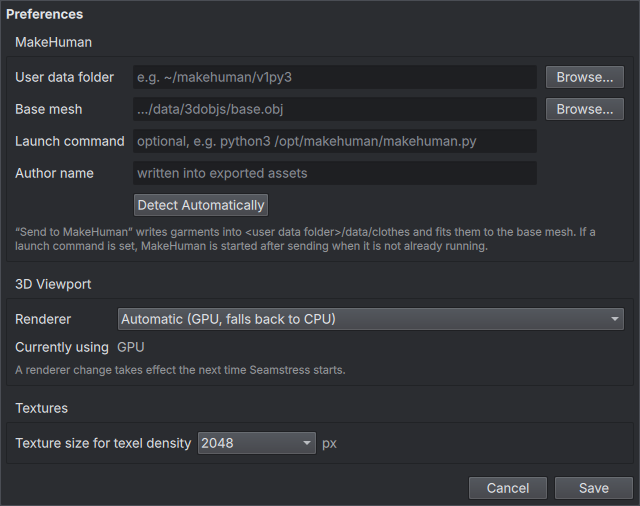
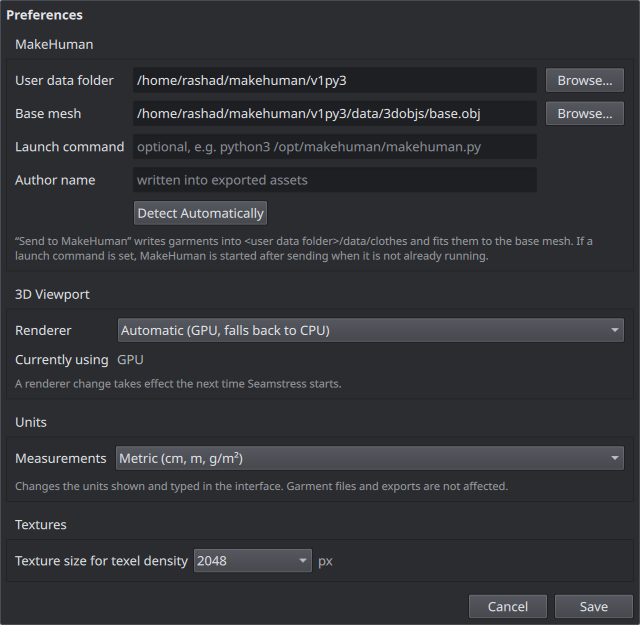
Able to switch from Metric to Imperial Units

Changed region(s): [[0.0, 0.0, 1.0, 0.919], [0.8438, 0.0889, 1.0, 0.2372], [0.7188, 0.919, 1.0, 1.0]]

diff --git a/src/Seamstress.App/PropertiesPanel.qml b/src/Seamstress.App/PropertiesPanel.qml
@@ -12,6 +12,14 @@ Pane {
     signal pickColor(string current)
     signal pickTexture()
 
+    // Values are stored metric; with imperial units they are converted for display and converted back when edited.
+    readonly property bool imperial: App.imperial
+    readonly property real cmUnit: imperial ? 2.54 : 1            // centimetres per displayed length unit
+    readonly property real mUnit: imperial ? 0.0254 : 1           // metres per displayed position unit
+    readonly property real mmUnit: imperial ? 25.4 : 1            // millimetres per displayed thickness unit
+    readonly property real gsmUnit: imperial ? 33.9057 : 1        // g/m² per displayed fabric weight unit (oz/yd²)
+    readonly property string lengthName: imperial ? "in" : "cm"
+
     function refresh() { sel = JSON.parse(App.selection()) }
     Component.onCompleted: refresh()
     Connections {
@@ -98,6 +106,7 @@ Pane {
         property real stepSize: 1
         property int decimals: 0
         property string suffix: ""
+        property int valueWidth: 54
         signal edited(real value)
         Layout.fillWidth: true
         spacing: 6
@@ -113,7 +122,7 @@ Pane {
         }
         Label {
             text: slider.value.toFixed(sliderRow.decimals) + sliderRow.suffix
-            Layout.preferredWidth: 54
+            Layout.preferredWidth: sliderRow.valueWidth
             horizontalAlignment: Text.AlignRight
             opacity: 0.8
         }
@@ -163,9 +172,10 @@ Pane {
                 visible: !!root.sel.garment
                 SliderRow {
                     label: "Particle distance"
-                    from: 0.5; to: 6; stepSize: 0.1; decimals: 1; suffix: " cm"
-                    value: root.sel.garment ? root.sel.garment.particleDistance : 2
-                    onEdited: (v) => App.setParticleDistance(v)
+                    from: root.imperial ? 0.2 : 0.5; to: root.imperial ? 2.4 : 6
+                    stepSize: root.imperial ? 0.05 : 0.1; decimals: root.imperial ? 2 : 1; suffix: " " + root.lengthName
+                    value: (root.sel.garment ? root.sel.garment.particleDistance : 2) / root.cmUnit
+                    onEdited: (v) => App.setParticleDistance(v * root.cmUnit)
                 }
                 RowLayout {
                     Layout.fillWidth: true
@@ -199,15 +209,15 @@ Pane {
                 NumberRow {
                     visible: root.sel.kind === "pieces"
                     label: "Piece override"
-                    decimals: 1; step: 0.1; suffix: "cm"
-                    value: root.sel.piece ? root.sel.piece.particleDistance : 0
-                    onEdited: (v) => App.setPieceValue("particleDistance", v)
+                    decimals: root.imperial ? 2 : 1; step: root.imperial ? 0.05 : 0.1; suffix: root.lengthName
+                    value: (root.sel.piece ? root.sel.piece.particleDistance : 0) / root.cmUnit
+                    onEdited: (v) => App.setPieceValue("particleDistance", v * root.cmUnit)
                 }
                 InfoRow {
                     visible: root.sel.kind === "pieces"
                     label: "Selected"
                     value: root.sel.piece ? root.sel.piece.faces.toLocaleString(Qt.locale(), "f", 0) + " faces  ·  "
-                         + root.sel.piece.area.toFixed(0) + " cm²" : ""
+                         + (root.sel.piece.area / (root.cmUnit * root.cmUnit)).toFixed(0) + " " + root.lengthName + "²" : ""
                 }
                 Label {
                     visible: root.sel.kind === "pieces"
@@ -226,7 +236,8 @@ Pane {
                 InfoRow { label: "To"; value: root.sel.seam ? root.sel.seam.b : "" }
                 InfoRow {
                     label: "Lengths"
-                    value: root.sel.seam ? root.sel.seam.lengthA.toFixed(1) + " cm  ↔  " + root.sel.seam.lengthB.toFixed(1) + " cm" : ""
+                    value: root.sel.seam ? (root.sel.seam.lengthA / root.cmUnit).toFixed(root.imperial ? 2 : 1) + " " + root.lengthName + "  ↔  "
+                         + (root.sel.seam.lengthB / root.cmUnit).toFixed(root.imperial ? 2 : 1) + " " + root.lengthName : ""
                 }
                 RowLayout {
                     Layout.fillWidth: true
@@ -245,9 +256,9 @@ Pane {
             Section {
                 title: "3D Arrangement"
                 visible: root.sel.kind === "pieces"
-                NumberRow { label: "Position X"; suffix: "m"; step: 0.01; value: root.sel.piece ? root.sel.piece.posX : 0; onEdited: (v) => App.setPieceValue("posX", v) }
-                NumberRow { label: "Position Y"; suffix: "m"; step: 0.01; value: root.sel.piece ? root.sel.piece.posY : 0; onEdited: (v) => App.setPieceValue("posY", v) }
-                NumberRow { label: "Position Z"; suffix: "m"; step: 0.01; value: root.sel.piece ? root.sel.piece.posZ : 0; onEdited: (v) => App.setPieceValue("posZ", v) }
+                NumberRow { label: "Position X"; suffix: root.imperial ? "in" : "m"; decimals: root.imperial ? 1 : 2; step: root.imperial ? 0.5 : 0.01; value: (root.sel.piece ? root.sel.piece.posX : 0) / root.mUnit; onEdited: (v) => App.setPieceValue("posX", v * root.mUnit) }
+                NumberRow { label: "Position Y"; suffix: root.imperial ? "in" : "m"; decimals: root.imperial ? 1 : 2; step: root.imperial ? 0.5 : 0.01; value: (root.sel.piece ? root.sel.piece.posY : 0) / root.mUnit; onEdited: (v) => App.setPieceValue("posY", v * root.mUnit) }
+                NumberRow { label: "Position Z"; suffix: root.imperial ? "in" : "m"; decimals: root.imperial ? 1 : 2; step: root.imperial ? 0.5 : 0.01; value: (root.sel.piece ? root.sel.piece.posZ : 0) / root.mUnit; onEdited: (v) => App.setPieceValue("posZ", v * root.mUnit) }
                 NumberRow { label: "Rotation X"; suffix: "°"; decimals: 1; step: 5; value: root.sel.piece ? root.sel.piece.rotX : 0; onEdited: (v) => App.setPieceValue("rotX", v) }
                 NumberRow { label: "Rotation Y"; suffix: "°"; decimals: 1; step: 5; value: root.sel.piece ? root.sel.piece.rotY : 0; onEdited: (v) => App.setPieceValue("rotY", v) }
                 NumberRow { label: "Rotation Z"; suffix: "°"; decimals: 1; step: 5; value: root.sel.piece ? root.sel.piece.rotZ : 0; onEdited: (v) => App.setPieceValue("rotZ", v) }
@@ -283,13 +294,26 @@ Pane {
                         onActivated: if (root.sel.presets.indexOf(currentText) >= 0) App.setPreset(currentText)
                     }
                 }
-                SliderRow { label: "Weight"; from: 20; to: 1000; stepSize: 5; suffix: " g/m²"; value: root.sel.physics ? root.sel.physics.density : 150; onEdited: (v) => App.setPieceValue("density", v) }
+                SliderRow {
+                    label: "Weight"
+                    from: root.imperial ? 0.6 : 20; to: root.imperial ? 29.5 : 1000
+                    stepSize: root.imperial ? 0.1 : 5; decimals: root.imperial ? 1 : 0
+                    suffix: root.imperial ? " oz/yd²" : " g/m²"; valueWidth: root.imperial ? 70 : 54
+                    value: (root.sel.physics ? root.sel.physics.density : 150) / root.gsmUnit
+                    onEdited: (v) => App.setPieceValue("density", v * root.gsmUnit)
+                }
                 SliderRow { label: "Stretch"; value: root.sel.physics ? root.sel.physics.stretch : 0; onEdited: (v) => App.setPieceValue("stretch", v) }
                 SliderRow { label: "Shear"; value: root.sel.physics ? root.sel.physics.shear : 0; onEdited: (v) => App.setPieceValue("shear", v) }
                 SliderRow { label: "Bend"; value: root.sel.physics ? root.sel.physics.bend : 0; onEdited: (v) => App.setPieceValue("bend", v) }
                 SliderRow { label: "Damping"; value: root.sel.physics ? root.sel.physics.damping : 0; onEdited: (v) => App.setPieceValue("damping", v) }
                 SliderRow { label: "Friction"; value: root.sel.physics ? root.sel.physics.friction : 0; onEdited: (v) => App.setPieceValue("friction", v) }
-                SliderRow { label: "Thickness"; from: 0.5; to: 15; stepSize: 0.5; decimals: 1; suffix: " mm"; value: root.sel.physics ? root.sel.physics.thickness : 3; onEdited: (v) => App.setPieceValue("thickness", v) }
+                SliderRow {
+                    label: "Thickness"
+                    from: root.imperial ? 0.02 : 0.5; to: root.imperial ? 0.6 : 15
+                    stepSize: root.imperial ? 0.02 : 0.5; decimals: root.imperial ? 2 : 1; suffix: root.imperial ? " in" : " mm"
+                    value: (root.sel.physics ? root.sel.physics.thickness : 3) / root.mmUnit
+                    onEdited: (v) => App.setPieceValue("thickness", v * root.mmUnit)
+                }
             }
 
             // ---- Material ------------------------------------------------------------
@@ -377,7 +401,7 @@ Pane {
                 visible: root.sel.kind === "pieces"
                 InfoRow {
                     label: "Texel density"
-                    value: root.sel.piece ? root.sel.piece.texelDensity.toFixed(2) + " px/cm  @ " + root.sel.piece.textureResolution + " px" : ""
+                    value: root.sel.piece ? (root.sel.piece.texelDensity * root.cmUnit).toFixed(root.imperial ? 1 : 2) + " px/" + root.lengthName + "  @ " + root.sel.piece.textureResolution + " px" : ""
                 }
                 SliderRow { label: "UV scale"; from: 0.1; to: 4; stepSize: 0.05; decimals: 2; suffix: "×"; value: root.sel.piece ? root.sel.piece.uvScale : 1; onEdited: (v) => App.setPieceValue("uvScale", v) }
                 SliderRow { label: "UV rotation"; from: -180; to: 180; stepSize: 5; suffix: "°"; value: root.sel.piece ? root.sel.piece.uvRotation : 0; onEdited: (v) => App.setPieceValue("uvRotation", v) }

diff --git a/src/Seamstress.App/PatternView.qml b/src/Seamstress.App/PatternView.qml
@@ -2,7 +2,8 @@ import QtQuick
 import QtQuick.Controls
 
 // 2D viewport: draws the pattern pieces (or their UV layout) and forwards pointer input to the editor.
-// World coordinates are centimetres with Y up; in UV mode they are texture units.
+// World coordinates are centimetres with Y up; in UV mode they are texture units. With imperial units only the
+// grid spacing and the read-outs change.
 Item {
     id: root
     clip: true
@@ -55,6 +56,7 @@ Item {
     Connections {
         target: App
         function onSceneRevisionChanged() { Qt.callLater(root.refresh) }
+        function onImperialChanged() { canvas.requestPaint() }
     }
 
     Canvas {
@@ -114,17 +116,23 @@ Item {
                 ctx.lineWidth = 1
                 ctx.strokeRect(root.sx(0), root.sy(1), root.zoom, root.zoom)
             } else {
-                // Grid every 10 cm, with a stronger line every metre and at the origin.
-                const step = root.zoom * 10 >= 14 ? 10 : 100
-                const x0 = Math.floor(root.wx(0) / step) * step, x1 = root.wx(width)
-                const y0 = Math.floor(root.wy(height) / step) * step, y1 = root.wy(0)
+                // Grid every 10 cm, with a stronger line every metre and at the origin. In imperial units the lines
+                // are 4 in apart with a stronger one every foot; zoomed out, a line per foot and a stronger one per yard.
+                const imperial = App.imperial
+                let step = imperial ? 4 * 2.54 : 10, perMajor = imperial ? 3 : 10
+                if (root.zoom * step < 14) {
+                    step = imperial ? 12 * 2.54 : 100
+                    perMajor = imperial ? 3 : 1
+                }
                 ctx.lineWidth = 1
-                for (let x = x0; x <= x1; x += step) {
-                    ctx.strokeStyle = x === 0 ? "#6a6f78" : (x % 100 === 0 ? "#484c53" : "#383b41")
+                for (let i = Math.floor(root.wx(0) / step); i * step <= root.wx(width); i++) {
+                    const x = i * step
+                    ctx.strokeStyle = i === 0 ? "#6a6f78" : (i % perMajor === 0 ? "#484c53" : "#383b41")
                     ctx.beginPath(); ctx.moveTo(Math.round(root.sx(x)) + 0.5, 0); ctx.lineTo(Math.round(root.sx(x)) + 0.5, height); ctx.stroke()
                 }
-                for (let y = y0; y <= y1; y += step) {
-                    ctx.strokeStyle = y === 0 ? "#6a6f78" : (y % 100 === 0 ? "#484c53" : "#383b41")
+                for (let i = Math.floor(root.wy(height) / step); i * step <= root.wy(0); i++) {
+                    const y = i * step
+                    ctx.strokeStyle = i === 0 ? "#6a6f78" : (i % perMajor === 0 ? "#484c53" : "#383b41")
                     ctx.beginPath(); ctx.moveTo(0, Math.round(root.sy(y)) + 0.5); ctx.lineTo(width, Math.round(root.sy(y)) + 0.5); ctx.stroke()
                 }
             }
@@ -185,7 +193,7 @@ Item {
                 ctx.fillStyle = p.active ? "#f4f5f7" : "#a9adb5"
                 ctx.font = (p.selected ? "bold " : "") + "12px sans-serif"
                 ctx.textAlign = "center"
-                const label = root.uv ? p.name + "  ·  " + p.density.toFixed(1) + " px/cm" : p.name
+                const label = root.uv ? p.name + "  ·  " + (App.imperial ? (p.density * 2.54).toFixed(1) + " px/in" : p.density.toFixed(1) + " px/cm") : p.name
                 ctx.fillText(label, root.sx(p.label[0]), root.sy(p.label[1]) + 4)
             }
 
@@ -240,6 +248,7 @@ Item {
             }
             coords.text = root.uv
                 ? "U " + root.wx(e.x).toFixed(3) + "   V " + root.wy(e.y).toFixed(3)
+                : App.imperial ? (root.wx(e.x) / 2.54).toFixed(2) + ", " + (root.wy(e.y) / 2.54).toFixed(2) + " in"
                 : root.wx(e.x).toFixed(1) + ", " + root.wy(e.y).toFixed(1) + " cm"
         }
         onReleased: (e) => {

diff --git a/src/Seamstress.App/PreferencesDialog.qml b/src/Seamstress.App/PreferencesDialog.qml
@@ -3,7 +3,8 @@ import QtQuick.Controls
 import QtQuick.Dialogs
 import QtQuick.Layouts
 
-// Preferences: where MakeHuman lives, how the 3D viewport renders, and the texture size used for density readouts.
+// Preferences: where MakeHuman lives, how the 3D viewport renders, the units shown, and the texture size used for
+// density readouts.
 Dialog {
     id: root
     title: "Preferences"
@@ -19,11 +20,13 @@ Dialog {
         author.text = App.settingAuthor
         renderer.currentIndex = Math.max(0, ["auto", "gpu", "cpu"].indexOf(App.settingRenderer))
         resolution.currentIndex = Math.max(0, resolution.model.indexOf(App.settingTextureResolution))
+        units.currentIndex = App.settingUnits === "imperial" ? 1 : 0
     }
 
     onAboutToShow: load()
     onAccepted: App.savePreferences(userFolder.text, baseMesh.text, command.text,
-                                    ["auto", "gpu", "cpu"][renderer.currentIndex], resolution.model[resolution.currentIndex], author.text)
+                                    ["auto", "gpu", "cpu"][renderer.currentIndex], resolution.model[resolution.currentIndex], author.text,
+                                    units.currentIndex === 1 ? "imperial" : "metric")
 
     ColumnLayout {
         anchors.fill: parent
@@ -105,6 +108,31 @@ Dialog {
                     opacity: 0.6
                     font.pixelSize: 11
                     text: "A renderer change takes effect the next time Seamstress starts."
+                }
+            }
+        }
+
+        GroupBox {
+            title: "Units"
+            Layout.fillWidth: true
+            GridLayout {
+                anchors.fill: parent
+                columns: 2
+                columnSpacing: 8
+                rowSpacing: 8
+                Label { text: "Measurements" }
+                ComboBox {
+                    id: units
+                    Layout.fillWidth: true
+                    model: ["Metric (cm, m, g/m²)", "Imperial (in, oz/yd²)"]
+                }
+                Label {
+                    Layout.columnSpan: 2
+                    Layout.fillWidth: true
+                    wrapMode: Text.WordWrap
+                    opacity: 0.6
+                    font.pixelSize: 11
+                    text: "Changes the units shown and typed in the interface. Garment files and exports are not affected."
                 }
             }
         }

diff --git a/src/Seamstress.App/BodyShapeDialog.qml b/src/Seamstress.App/BodyShapeDialog.qml
@@ -15,6 +15,14 @@ Dialog {
 
     property var shape: ({ gender: 0.5, age: 0.5, muscle: 0.5, weight: 0.5, height: 0.5, proportions: 0.5, heightCm: 0, shaped: true, loading: false })
     function refresh() { shape = JSON.parse(App.avatarShape()) }
+    // "165.9 cm", or feet and inches with imperial units.
+    function heightText(cm) {
+        if (!App.imperial)
+            return cm.toFixed(1) + " cm"
+        const tenths = Math.round(cm / 2.54 * 10)
+        const feet = Math.floor(tenths / 120)
+        return feet + " ft " + ((tenths - feet * 120) / 10).toFixed(1) + " in"
+    }
     onAboutToShow: refresh()
     Connections {
         target: App
@@ -62,7 +70,7 @@ Dialog {
                 Layout.fillWidth: true
                 opacity: 0.75
                 text: root.shape.loading ? "Rebuilding the avatar…"
-                    : root.shape.heightCm > 0 ? "Height: " + root.shape.heightCm.toFixed(1) + " cm" : ""
+                    : root.shape.heightCm > 0 ? "Height: " + root.heightText(root.shape.heightCm) : ""
             }
             Button { text: "Reset to Neutral"; onClicked: App.resetAvatarShape() }
         }

diff --git a/src/Seamstress.App/Viewport3D.qml b/src/Seamstress.App/Viewport3D.qml
@@ -88,9 +88,9 @@ Item {
             backgroundMode: SceneEnvironment.Color
             antialiasingMode: SceneEnvironment.MSAA
             antialiasingQuality: SceneEnvironment.High
-            // Ground: a 10 cm grid that fades with distance.
+            // Ground: a 10 cm grid (4 in with imperial units) that fades with distance.
             InfiniteGrid {
-                gridInterval: 0.1
+                gridInterval: App.imperial ? 0.1016 : 0.1
                 gridAxes: false
             }
         }

diff --git a/src/Seamstress.App/AppController.cs b/src/Seamstress.App/AppController.cs
@@ -767,8 +767,12 @@ public partial class AppController : INotifyPropertyChanged
     public string SettingRenderer => _settings.Renderer;
     public int SettingTextureResolution => _settings.TextureResolution;
     public string SettingAuthor => _settings.Author;
+    public string SettingUnits => _settings.Units;
 
-    public void SavePreferences(string userFolder, string baseMesh, string command, string renderer, int textureResolution, string author)
+    /// <summary>True when lengths are shown in inches. "--units" overrides the saved preference for one run.</summary>
+    public bool Imperial => (Startup.Units ?? _settings.Units) == "imperial";
+
+    public void SavePreferences(string userFolder, string baseMesh, string command, string renderer, int textureResolution, string author, string units)
     {
         bool baseChanged = _settings.MakeHumanBaseMesh != LocalPath(baseMesh.Trim());
         _settings.MakeHumanUserFolder = LocalPath(userFolder.Trim());
@@ -777,6 +781,8 @@ public partial class AppController : INotifyPropertyChanged
         _settings.Renderer = renderer is "gpu" or "cpu" ? renderer : "auto";
         _settings.TextureResolution = Math.Clamp(textureResolution, 64, 16384);
         _settings.Author = author.Trim();
+        _settings.Units = units == "imperial" ? "imperial" : "metric";
+        Startup.Units = null;
         TrySaveSettings();
         NotifySettings();
         if (baseChanged)
@@ -809,6 +815,8 @@ public partial class AppController : INotifyPropertyChanged
         Notify(nameof(SettingRenderer));
         Notify(nameof(SettingTextureResolution));
         Notify(nameof(SettingAuthor));
+        Notify(nameof(SettingUnits));
+        Notify(nameof(Imperial));
         Notify(nameof(MakeHumanLinked));
     }
 

diff --git a/src/Seamstress.App/Program.cs b/src/Seamstress.App/Program.cs
@@ -19,6 +19,7 @@ internal sealed class StartupOptions
     public bool Smoke { get; set; }
     public bool Quads { get; set; }
     public float? Gender { get; set; }
+    public string? Units { get; set; }
     public int Width { get; set; }
     public int Height { get; set; }
     public string? SelectPiece { get; set; }
@@ -110,6 +111,7 @@ public static class Program
                 case "--view": options.View = Next(); break;
                 case "--avatar": options.Avatar = Next(); break;
                 case "--quads": options.Quads = true; break;
+                case "--units": options.Units = Next(); break;
                 case "--gender":
                     if (float.TryParse(Next(), System.Globalization.NumberStyles.Float, System.Globalization.CultureInfo.InvariantCulture, out float g))
                         options.Gender = g;

diff --git a/src/Seamstress.Core/AppSettings.cs b/src/Seamstress.Core/AppSettings.cs
@@ -20,6 +20,9 @@ public sealed class AppSettings
     /// <summary>Texture size in pixels assumed when reporting texel density.</summary>
     public int TextureResolution { get; set; } = 2048;
 
+    /// <summary>"metric" or "imperial". Only changes what the interface shows; files and exports stay metric.</summary>
+    public string Units { get; set; } = "metric";
+
     public string Author { get; set; } = "";
     public List<string> RecentFiles { get; set; } = new();
 

diff --git a/docs/USER_GUIDE.md b/docs/USER_GUIDE.md
@@ -145,7 +145,8 @@ maps what you already know to where it lives here.
   last clicked is the *active* garment, shown highlighted in Layers, and Simulate only affects that one.
 - **A seam joins a whole edge to a whole edge.** To sew part of an edge, split it first by double-clicking
   it with the Edit Points tool; each part is then its own edge.
-- **Units.** Patterns are in centimetres; 3D positions are in metres.
+- **Units.** Patterns are in centimetres; 3D positions are in metres. To work in inches instead, switch
+  **Measurements** to Imperial in [Preferences](#preferences).
 - **Not available yet:** internal lines and darts, pins, seam allowance, linked symmetric patterns, trims
   (buttons, zippers), pressure and wind, animation, and avatar posing or measurement editing.
 
@@ -580,6 +581,7 @@ MakeHuman's body.
 | **Author name** | Written into exported MakeHuman assets. |
 | **Detect Automatically** | Looks for MakeHuman in the usual places and fills in the two paths. |
 | **Renderer** | *Automatic* uses the GPU and falls back to CPU rendering when no GPU driver is found or the GPU failed to start last time. *GPU* and *CPU* force one or the other. Takes effect on the next start. |
+| **Measurements** | *Metric* shows centimetres, metres, millimetres and g/m². *Imperial* shows inches, oz/yd² and feet and inches for the avatar height, and the grids change to 4 in squares with a stronger line every foot. Applies immediately. Only the interface changes: garment files and exports are the same either way. |
 | **Texture size for texel density** | The texture resolution assumed by the texel density read-outs. |
 
 The renderer in use is shown in the bottom-right corner of the 3D view. You can also force it for one run by
